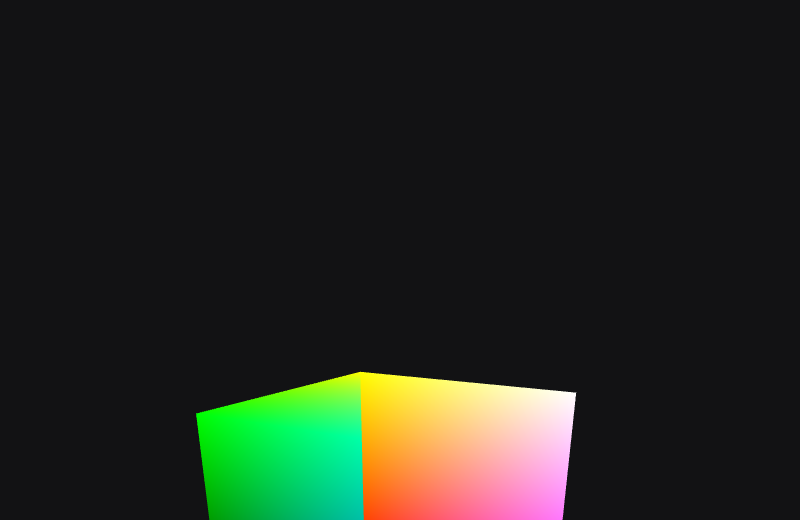
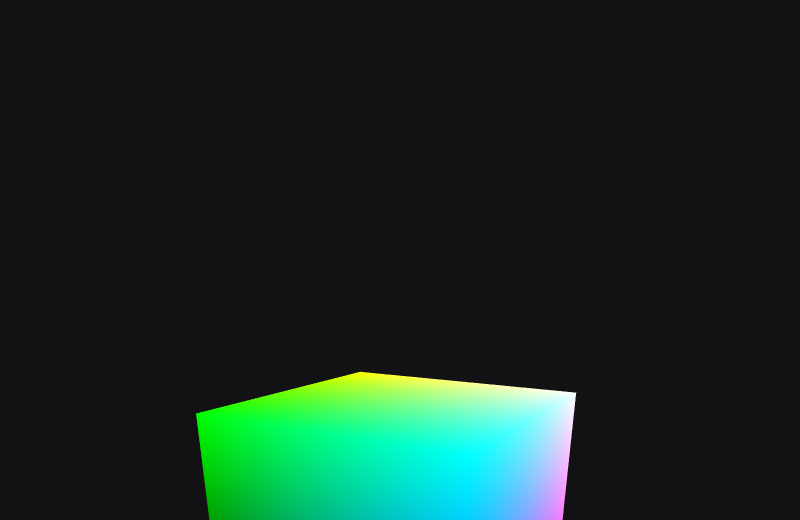
mobile/touch fixes: depth default, multi-touch orbit, viewport lockdown

Changed region(s): [[0.4375, 0.7077, 0.7188, 1.0]]

diff --git a/src/scene/controllers.ts b/src/scene/controllers.ts
@@ -220,9 +220,15 @@ export interface OrbitOptions {
 /**
  * Orbit-around-target controller.
  *
+ * Mouse:
  *   Left-drag    rotate (yaw + pitch)
- *   Wheel        zoom (multiplicative on distance)
  *   Middle-drag  pan target along the screen plane
+ *   Wheel        zoom (multiplicative on distance)
+ *
+ * Touch:
+ *   1 finger     rotate
+ *   2 fingers    pinch zoom + drag pan (translation of the
+ *                centroid pans, change in distance zooms)
  */
 export function orbitController(opts: OrbitOptions = {}): CameraControllerHandle {
   const targetC: ChangeableValue<V3d> = cval(opts.target ?? V3d.zero);
@@ -238,8 +244,15 @@ export function orbitController(opts: OrbitOptions = {}): CameraControllerHandle
   let pendingPitch = 0;
   let pendingPan = new V3d(0, 0, 0);
   let pendingZoom = 0;
-  let leftDrag = false;
-  let middleDrag = false;
+
+  // Active pointers, tracked by pointerId so we can support
+  // multi-touch (and a stuck-button mouse gesture). For each
+  // pointer, the last-seen position in CSS pixels.
+  interface ActivePointer { x: number; y: number; type: string; button: number }
+  const active = new Map<number, ActivePointer>();
+  // Last-known centroid + distance from a 2-pointer gesture, used
+  // to compute deltas between successive moves of either finger.
+  let twoPointer: { cx: number; cy: number; dist: number } | undefined;
 
   const eye = AVal.zip(targetC, upC, yawC, pitchC, distanceC).map((tgt, up, yaw, pitch, d) =>
     eyeFromOrbit(tgt, up, yaw, pitch, d),
@@ -278,39 +291,88 @@ export function orbitController(opts: OrbitOptions = {}): CameraControllerHandle
     pendingPan = new V3d(0, 0, 0);
   };
 
+  // Build the right / screen-up basis vectors at the current
+  // camera pose. Used for screen-plane panning.
+  const screenBasis = (): { right: V3d; upScreen: V3d; d: number } => {
+    const tgt = AVal.force(targetC);
+    const up = AVal.force(upC);
+    const yaw = AVal.force(yawC);
+    const pitch = AVal.force(pitchC);
+    const d = AVal.force(distanceC);
+    const eyeNow = eyeFromOrbit(tgt, up, yaw, pitch, d);
+    const fwd = tgt.sub(eyeNow).normalize();
+    const right = fwd.cross(up).normalize();
+    const upScreen = right.cross(fwd).normalize();
+    return { right, upScreen, d };
+  };
+
   // ---- Event wiring ----
   const onPointerDown = (e: PointerEvent): void => {
-    if (e.button === 0) leftDrag = true;
-    else if (e.button === 1) middleDrag = true;
-    else return;
+    // Mouse: only react to left + middle. Touch / pen: any
+    // pointer counts as an active gesture finger (button is 0
+    // for primary touch by spec).
+    const isMouse = e.pointerType === "mouse";
+    if (isMouse && e.button !== 0 && e.button !== 1) return;
+    active.set(e.pointerId, { x: e.clientX, y: e.clientY, type: e.pointerType, button: e.button });
+    twoPointer = undefined;  // recompute centroid on next move
     (e.target as HTMLElement).setPointerCapture?.(e.pointerId);
     e.preventDefault();
   };
   const onPointerMove = (e: PointerEvent): void => {
-    if (leftDrag) {
-      pendingYaw   += e.movementX * turnSensitivity;
-      pendingPitch += e.movementY * turnSensitivity;
-    } else if (middleDrag) {
-      // Pan along screen-plane: build current right + up, scale by
-      // mouse delta * distance.
-      const tgt = AVal.force(targetC);
-      const up  = AVal.force(upC);
-      const yaw = AVal.force(yawC);
-      const pitch = AVal.force(pitchC);
-      const d = AVal.force(distanceC);
-      const eyeNow = eyeFromOrbit(tgt, up, yaw, pitch, d);
-      const fwd = tgt.sub(eyeNow).normalize();
-      const right = fwd.cross(up).normalize();
-      const upScreen = right.cross(fwd).normalize();
-      const k = d * 0.001;
-      pendingPan = pendingPan
-        .add(right.mul(-e.movementX * k))
-        .add(upScreen.mul(e.movementY * k));
+    const prev = active.get(e.pointerId);
+    if (prev === undefined) return;
+    const dx = e.clientX - prev.x;
+    const dy = e.clientY - prev.y;
+    prev.x = e.clientX;
+    prev.y = e.clientY;
+
+    if (active.size === 1) {
+      // 1-pointer rotate (mouse left-drag, single touch, single
+      // pen). Middle-mouse drag is the pan path below.
+      if (prev.type === "mouse" && prev.button === 1) {
+        const { right, upScreen, d } = screenBasis();
+        const k = d * 0.001;
+        pendingPan = pendingPan
+          .add(right.mul(-dx * k))
+          .add(upScreen.mul(dy * k));
+      } else {
+        pendingYaw   += dx * turnSensitivity;
+        pendingPitch += dy * turnSensitivity;
+      }
+      return;
+    }
+
+    if (active.size === 2) {
+      // 2-pointer pinch + pan. Compute centroid + pairwise
+      // distance, compare to last-known.
+      const pts = Array.from(active.values());
+      const a = pts[0]!, b = pts[1]!;
+      const cx = (a.x + b.x) * 0.5;
+      const cy = (a.y + b.y) * 0.5;
+      const ddx = a.x - b.x, ddy = a.y - b.y;
+      const dist = Math.sqrt(ddx * ddx + ddy * ddy);
+      if (twoPointer !== undefined) {
+        const dCx = cx - twoPointer.cx;
+        const dCy = cy - twoPointer.cy;
+        const { right, upScreen, d } = screenBasis();
+        const k = d * 0.001;
+        pendingPan = pendingPan
+          .add(right.mul(-dCx * k))
+          .add(upScreen.mul(dCy * k));
+        // Pinch out (dist grows) → zoom in (negative steps).
+        // Each `pendingZoom` step multiplies distance by zoomFactor;
+        // tune the divisor so a typical pinch covers a few steps.
+        if (twoPointer.dist > 0) {
+          const ratio = twoPointer.dist / dist;
+          pendingZoom += Math.log(ratio) / Math.log(zoomFactor);
+        }
+      }
+      twoPointer = { cx, cy, dist };
     }
   };
   const onPointerUp = (e: PointerEvent): void => {
-    if (e.button === 0) leftDrag = false;
-    else if (e.button === 1) middleDrag = false;
+    active.delete(e.pointerId);
+    if (active.size < 2) twoPointer = undefined;
     (e.target as HTMLElement).releasePointerCapture?.(e.pointerId);
   };
   const onWheel = (e: WheelEvent): void => {

diff --git a/src/scene/renderControl.tsx b/src/scene/renderControl.tsx
@@ -160,16 +160,38 @@ export function RenderControl(props: RenderControlProps): import("../vnode.js").
   // attribute binder.
   const { scene, children, view, proj, defaultEffect, clear,
           device, runtime, attach, format, depthFormat, sampleCount,
-          onReady,
+          onReady, style: userStyle,
           ...htmlProps } = props;
   void scene; void children; void view; void proj; void defaultEffect; void clear;
   void device; void runtime; void attach;
   void format; void depthFormat; void sampleCount;
   void onReady;
 
+  // Default styles defend against the browser eating pointer
+  // events that should reach the controller:
+  //   - `touchAction: "none"` disables iOS Safari's pan/pinch/
+  //     double-tap-zoom on the canvas; without this `pointermove`
+  //     gets cancelled by the browser's gesture detector.
+  //   - `userSelect: "none"` + `-webkit-touch-callout: none`
+  //     prevents long-press selection / context menus.
+  //   - `overscrollBehavior: "contain"` stops drag from chaining
+  //     into pull-to-refresh on the parent scroller.
+  // User-supplied `style` values override.
+  const defaultStyle: Record<string, string | number | boolean | null | undefined> = {
+    touchAction: "none",
+    userSelect: "none",
+    "-webkit-user-select": "none",
+    "-webkit-touch-callout": "none",
+    overscrollBehavior: "contain",
+  };
+  const mergedStyle =
+    typeof userStyle === "string"
+      ? userStyle
+      : { ...defaultStyle, ...(userStyle ?? {}) };
+
   // Use the JSX runtime indirectly via the global jsx factory —
   // this file is `.tsx` so the build emits a jsx call.
-  return <canvas ref={onCanvasMount} {...htmlProps}/>;
+  return <canvas ref={onCanvasMount} style={mergedStyle} {...htmlProps}/>;
 }
 
 // ---------------------------------------------------------------------------
@@ -209,13 +231,21 @@ async function initialise(
   // exposes `framebuffer: aval<IFramebuffer>` and `size:
   // aval<{w,h}>`.
   //
-  // `colorAttachmentName: "outColor"` aligns the framebuffer
-  // signature with the de-facto wombat.shader convention (the
-  // fragment output is named `outColor` in `DefaultSurfaces.basic`
-  // and in the renderto-real coverage in wombat.rendering). User
-  // code can still override via `attach.colorAttachmentName`.
+  // Defaults:
+  //   - `colorAttachmentName: "outColor"` aligns the framebuffer
+  //     signature with the de-facto wombat.shader convention (the
+  //     fragment output is named `outColor` in
+  //     `DefaultSurfaces.basic` and in the renderto-real coverage
+  //     in wombat.rendering).
+  //   - `depthFormat: "depth24plus"` so the pipeline's `depth: {
+  //     write, compare: "less" }` state actually has a buffer to
+  //     test against. Without it, draws happen in vertex order —
+  //     visibly wrong for opaque 3D geometry.
+  //
+  // `attach`/`format`/`depthFormat`/`sampleCount` props override.
   const attachment = attachCanvas(device, canvas, {
     colorAttachmentName: "outColor",
+    depthFormat: "depth24plus",
     ...(props.attach ?? {}),
     ...(props.format !== undefined ? { format: props.format } : {}),
     ...(props.depthFormat !== undefined ? { depthFormat: props.depthFormat } : {}),

diff --git a/examples/hello-cube/index.html b/examples/hello-cube/index.html
@@ -2,11 +2,27 @@
 <html lang="en">
   <head>
     <meta charset="UTF-8" />
-    <meta name="viewport" content="width=device-width, initial-scale=1.0" />
+    <!-- viewport-fit=cover lets the canvas reach behind iOS notches.
+         maximum-scale=1 + user-scalable=no kill double-tap-zoom and
+         pinch-on-page so the orbit controller's pinch gesture isn't
+         intercepted by Safari. -->
+    <meta name="viewport" content="width=device-width, initial-scale=1.0, maximum-scale=1.0, user-scalable=no, viewport-fit=cover" />
     <title>wombat.dom — hello cube</title>
     <style>
       :root { color-scheme: dark; }
-      html, body { margin: 0; padding: 0; height: 100%; background: #111; font-family: system-ui, sans-serif; color: #ddd; }
+      html, body {
+        margin: 0; padding: 0; height: 100%;
+        background: #111; font-family: system-ui, sans-serif; color: #ddd;
+        /* Belt-and-braces: even with the canvas-level touch-action
+           applied by RenderControl, lock the page itself so a stray
+           drag near the edges doesn't pull-to-refresh / overscroll. */
+        overflow: hidden;
+        overscroll-behavior: none;
+        touch-action: none;
+        -webkit-user-select: none;
+        user-select: none;
+        -webkit-touch-callout: none;
+      }
       body { display: grid; grid-template-rows: auto 1fr auto; }
       header { padding: 12px 16px; border-bottom: 1px solid #333; }
       header h1 { margin: 0; font-size: 14px; font-weight: 500; }

diff --git a/examples/hello-cube/src/main.tsx b/examples/hello-cube/src/main.tsx
@@ -25,6 +25,25 @@ const root = document.getElementById("app")!;
 const status = document.getElementById("status")!;
 status.textContent = "starting…";
 
+// Surface unhandled errors / warnings into the on-page status
+// div — handy when the dev tools aren't reachable (e.g. mobile).
+window.addEventListener("error", (e) => {
+  status.textContent = "error: " + (e.error?.message ?? e.message);
+  status.style.color = "#ff7777";
+});
+window.addEventListener("unhandledrejection", (e) => {
+  const msg = e.reason?.message ?? String(e.reason);
+  status.textContent = "promise rejected: " + msg;
+  status.style.color = "#ff7777";
+});
+const origConsoleError = console.error.bind(console);
+console.error = (...args) => {
+  origConsoleError(...args);
+  const text = args.map(a => a instanceof Error ? a.message : String(a)).join(" ");
+  status.textContent = "console.error: " + text.slice(0, 500);
+  status.style.color = "#ff7777";
+};
+
 // Orbit controller — owns its own rAF loop and pointer/wheel
 // listeners (attached after the canvas exists, in `onReady`).
 const ctl = orbitController({

diff --git a/examples/hello-cube/vite.config.ts b/examples/hello-cube/vite.config.ts
@@ -7,7 +7,13 @@ import { defineConfig } from "vite";
 // in the app code.
 
 export default defineConfig({
-  server: { port: 5175 },
+  server: {
+    port: 5175,
+    // Permit Tailscale-issued hostnames + LAN access. Vite's
+    // default host-allowlist refuses requests that come in
+    // through a reverse proxy under a different name.
+    allowedHosts: [".ts.net", "localhost"],
+  },
   esbuild: {
     jsx: "automatic",
     jsxImportSource: "@aardworx/wombat.dom",